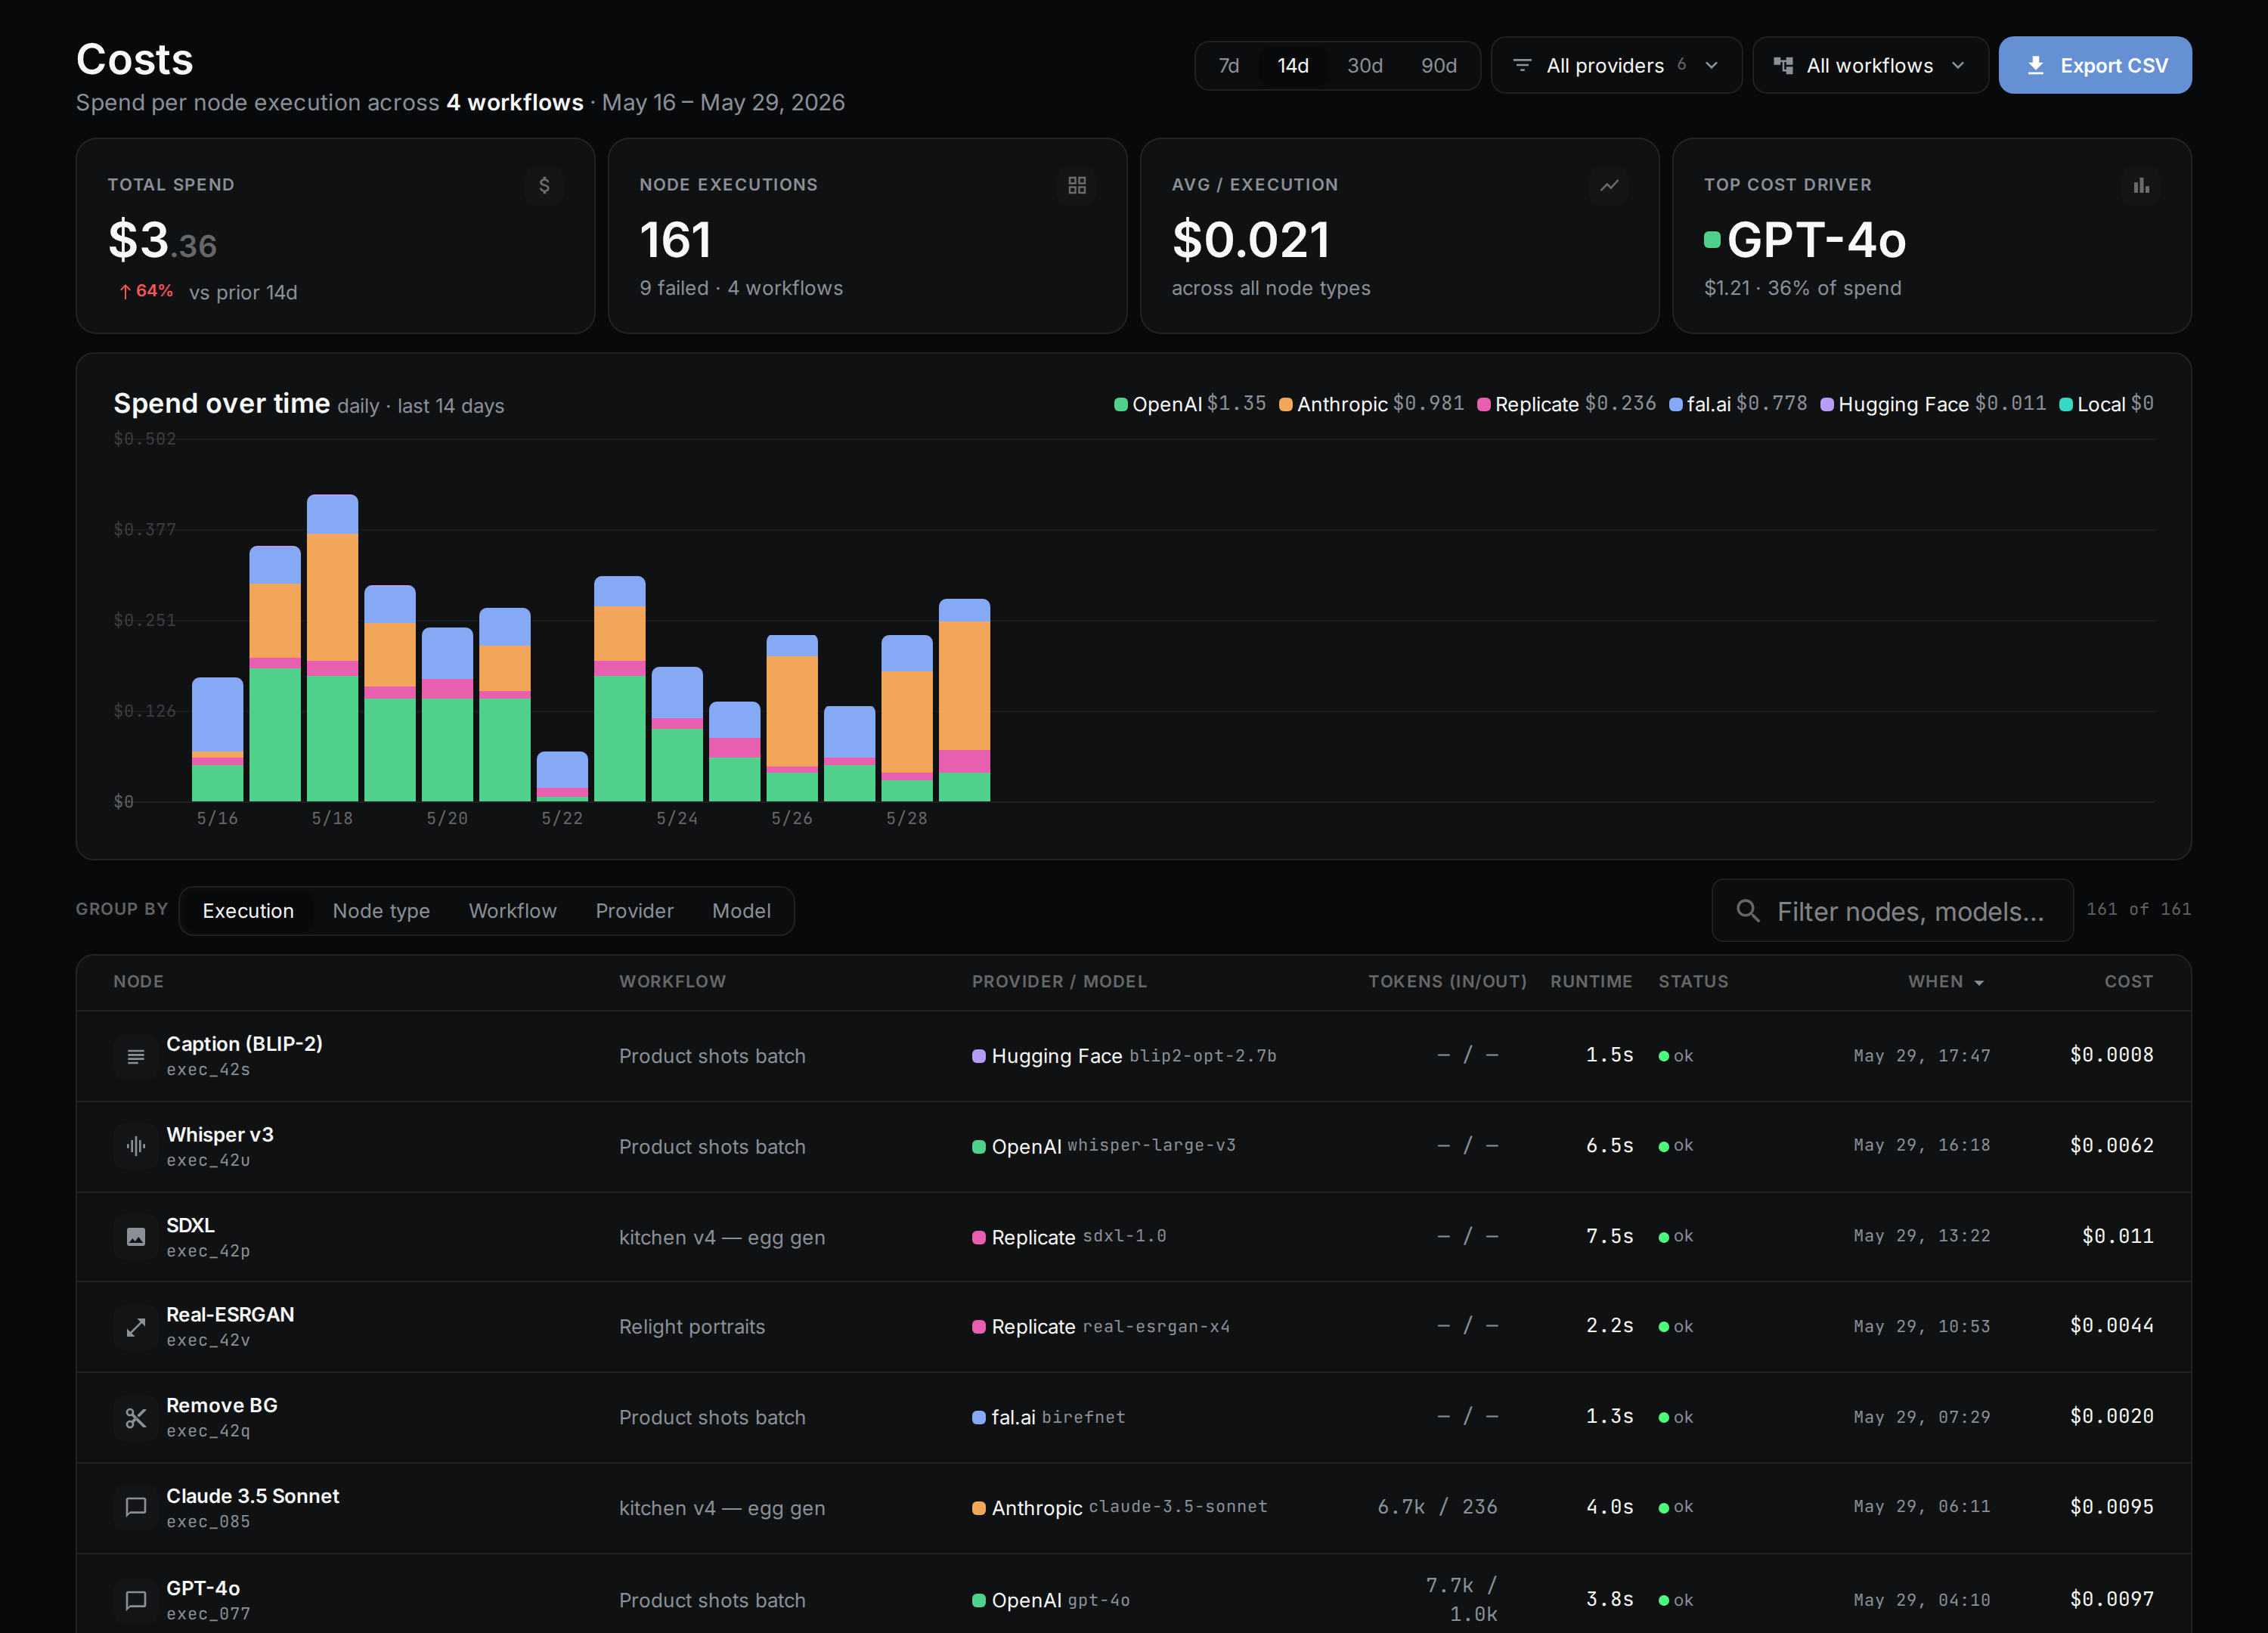
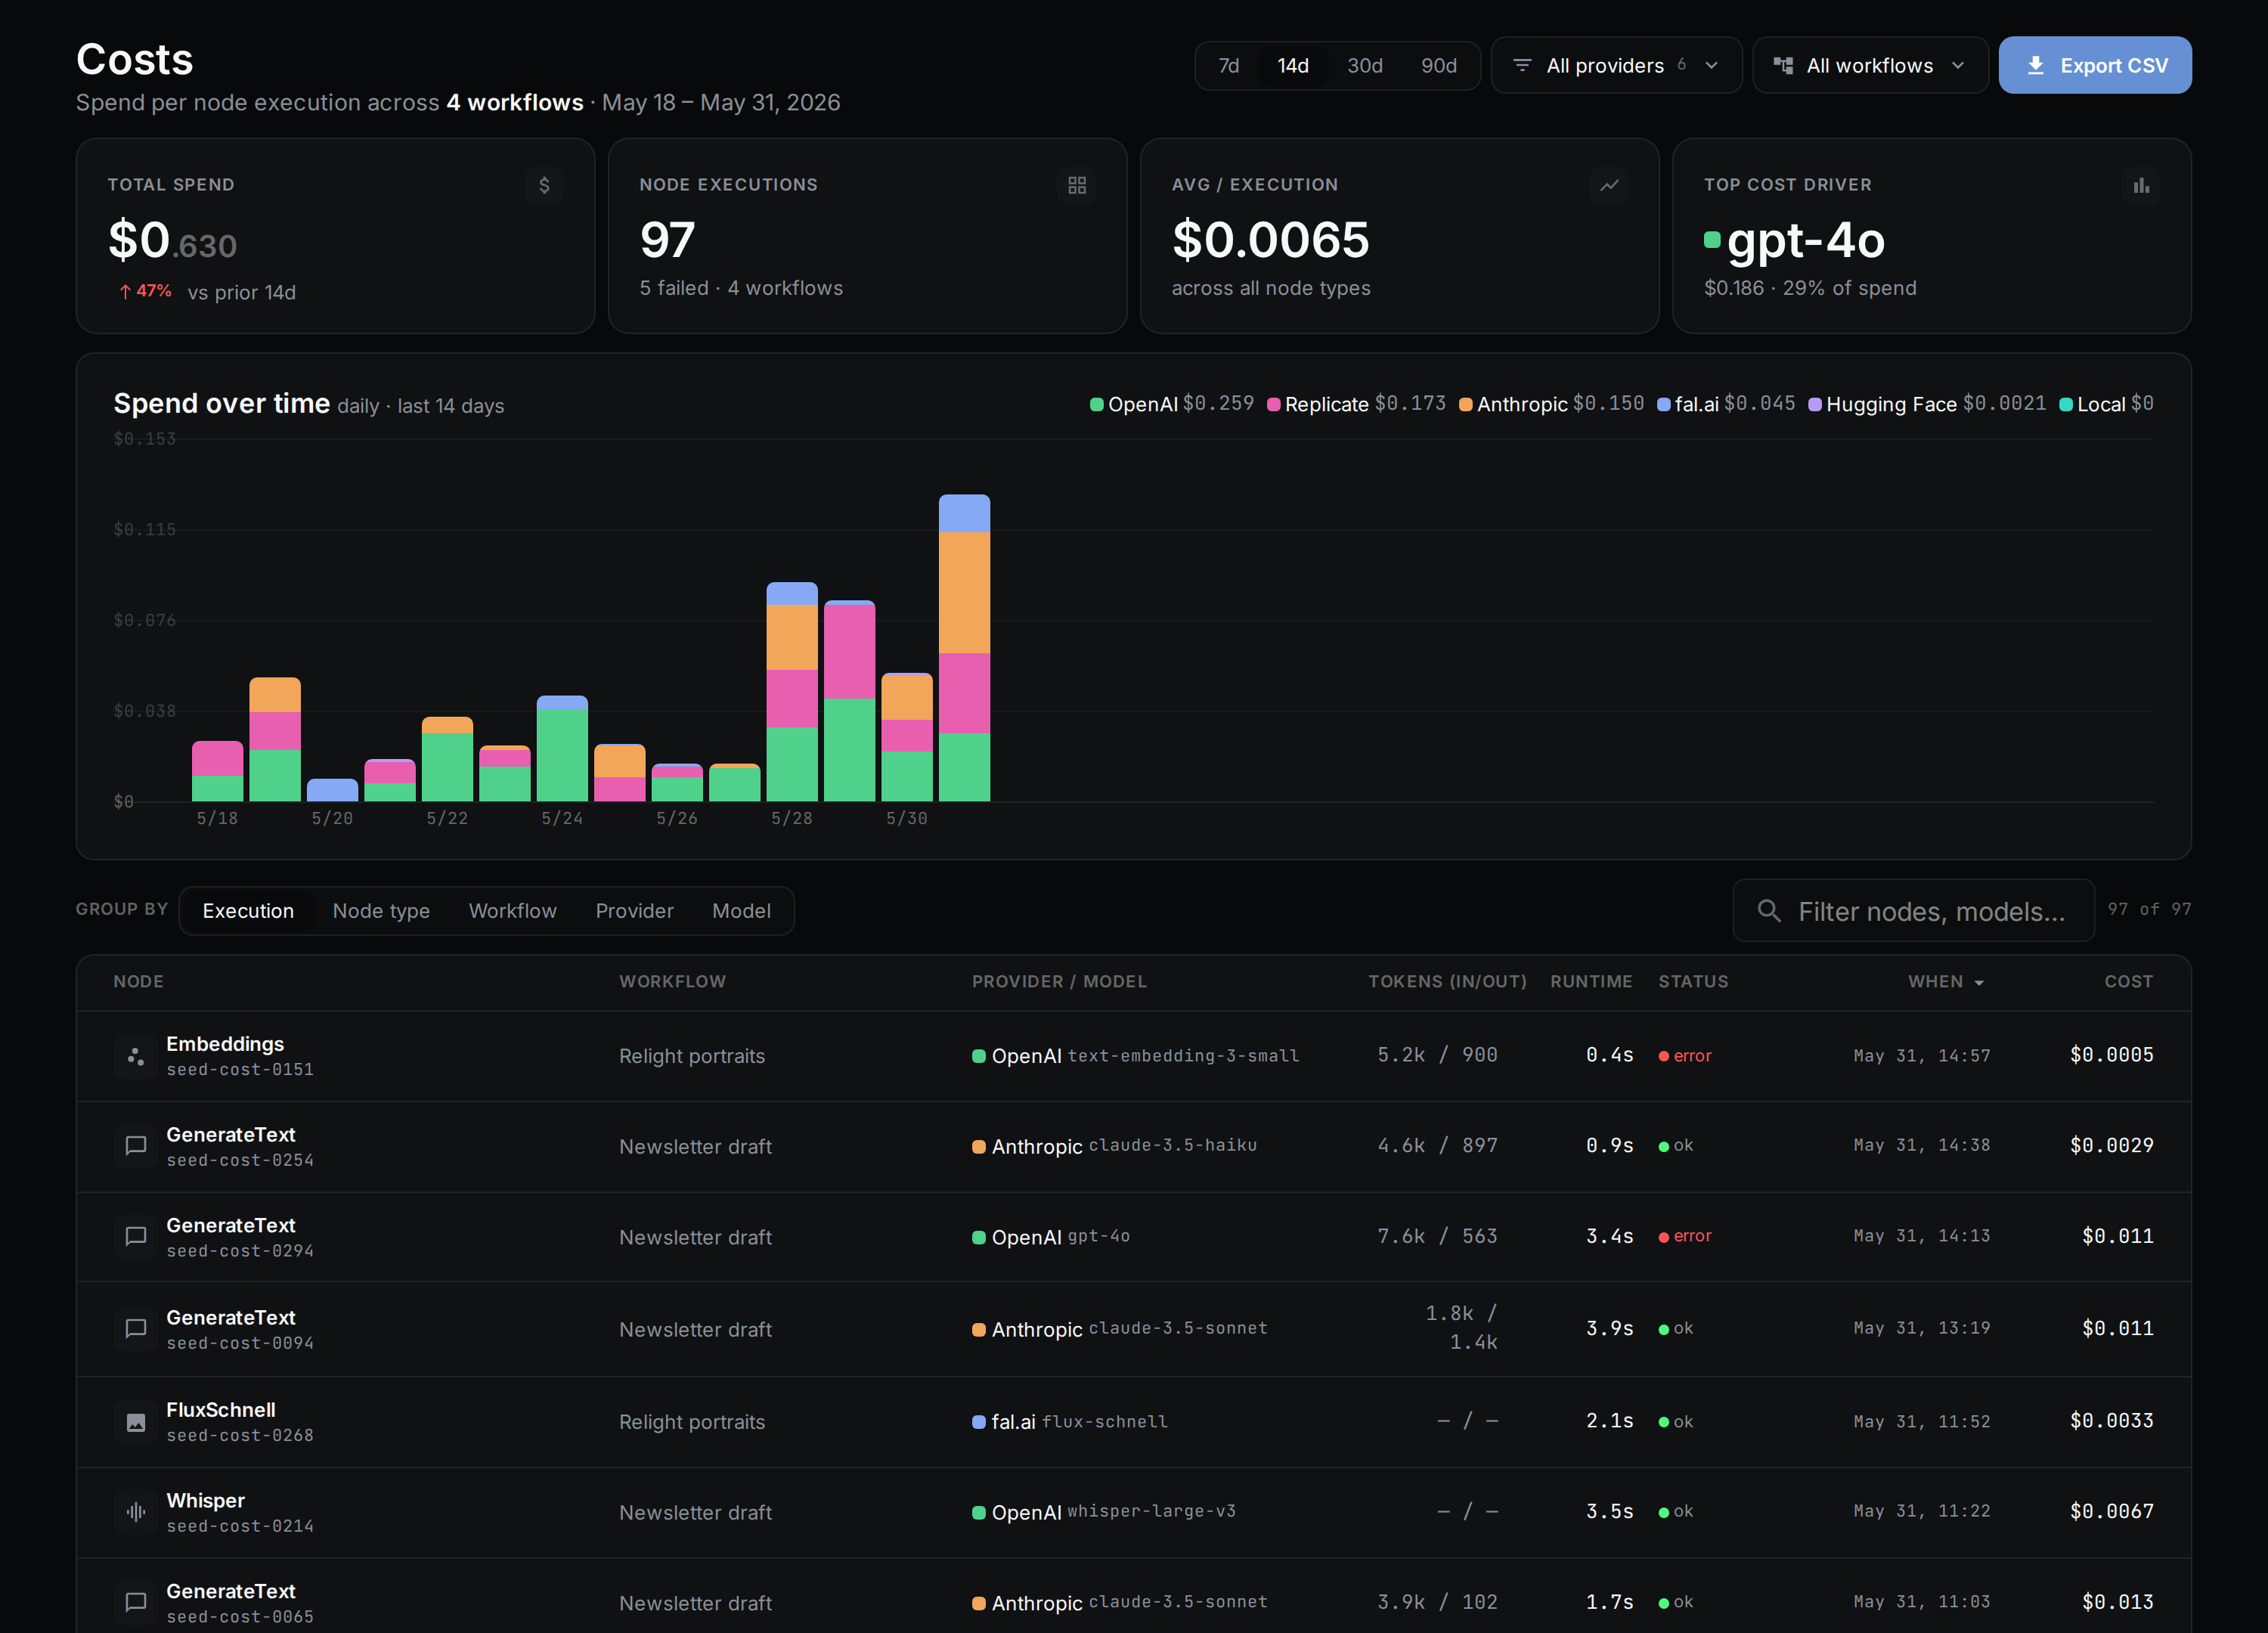
Add opt-in demo cost-data seed
Populate nodetool_predictions (and a few demo workflows so names resolve)
with realistic spend for the Costs dashboard — for screenshots and local
development, replacing the removed frontend sample data.

- seedCostData() generates a deterministic set of ~320 predictions across a
  trailing 90-day window (recency-biased so the default 14d view is dense),
  spanning providers/models/node types with token counts, durations, a few
  failures, and demo workflows for name resolution. Timestamps are relative
  to "now"; idempotent via a marker row.
- Wired into runSeeds() behind NODETOOL_SEED_DEMO_COSTS=1 so it never
  pollutes a real install; exported from @user/models.
- Tests cover seeding, idempotency, and that the data feeds
  Prediction.aggregateDashboard with resolvable workflow names.
- Refresh the dashboard screenshot from a live, seeded run.
https://claude.ai/code/session_01SNGbnZNJPNkSo9mQfrHwvQ

diff --git a/packages/models/src/seeds/cost_data.ts b/packages/models/src/seeds/cost_data.ts
@@ -1,0 +1,145 @@
+/**
+ * Demo cost-data seed.
+ *
+ * Populates `nodetool_predictions` (and a few demo workflows so names resolve)
+ * with realistic-looking spend for the Costs dashboard — for screenshots and
+ * local development. Off by default; enabled via `NODETOOL_SEED_DEMO_COSTS=1`
+ * (see `runSeeds`). Idempotent: a deterministic marker row prevents re-seeding.
+ *
+ * Timestamps are relative to "now" so the dashboard's trailing window always
+ * contains data regardless of when the seed runs.
+ */
+import { Prediction } from "../prediction.js";
+import { Workflow } from "../workflow.js";
+
+export const COST_SEED_USER_ID = "1";
+const MARKER_ID = "seed-cost-0001";
+const SPAN_DAYS = 90;
+const COUNT = 320;
+const DAY_MS = 86_400_000;
+
+interface DemoWorkflow {
+  id: string;
+  name: string;
+}
+
+const WORKFLOWS: DemoWorkflow[] = [
+  { id: "seed-wf-product-0001", name: "Product shots batch" },
+  { id: "seed-wf-kitchen-0001", name: "kitchen v4 — egg gen" },
+  { id: "seed-wf-relight-0001", name: "Relight portraits" },
+  { id: "seed-wf-newsletter-0001", name: "Newsletter draft" }
+];
+
+interface CatalogEntry {
+  nodeType: string;
+  provider: string;
+  model: string;
+  hasTokens: boolean;
+  baseCost: number;
+  runtime: [number, number];
+  weight: number;
+}
+
+// prettier-ignore
+const CATALOG: CatalogEntry[] = [
+  { nodeType: "nodetool.llm.GenerateText", provider: "openai", model: "gpt-4o", hasTokens: true, baseCost: 0.0125, runtime: [1.2, 4.5], weight: 9 },
+  { nodeType: "nodetool.llm.GenerateText", provider: "anthropic", model: "claude-3.5-sonnet", hasTokens: true, baseCost: 0.009, runtime: [1.4, 5.2], weight: 7 },
+  { nodeType: "nodetool.llm.GenerateText", provider: "anthropic", model: "claude-3.5-haiku", hasTokens: true, baseCost: 0.0021, runtime: [0.8, 2.4], weight: 4 },
+  { nodeType: "nodetool.image.StableDiffusionXL", provider: "replicate", model: "sdxl-1.0", hasTokens: false, baseCost: 0.011, runtime: [5.5, 9.5], weight: 5 },
+  { nodeType: "nodetool.image.FluxSchnell", provider: "fal", model: "flux-schnell", hasTokens: false, baseCost: 0.0031, runtime: [1.1, 3.0], weight: 6 },
+  { nodeType: "nodetool.audio.Whisper", provider: "openai", model: "whisper-large-v3", hasTokens: false, baseCost: 0.0062, runtime: [3.0, 8.0], weight: 4 },
+  { nodeType: "nodetool.audio.TextToSpeech", provider: "openai", model: "tts-1", hasTokens: false, baseCost: 0.0015, runtime: [0.9, 2.2], weight: 3 },
+  { nodeType: "nodetool.text.ImageCaption", provider: "huggingface", model: "blip2-opt-2.7b", hasTokens: false, baseCost: 0.0008, runtime: [1.0, 2.4], weight: 4 },
+  { nodeType: "nodetool.image.RemoveBackground", provider: "fal", model: "birefnet", hasTokens: false, baseCost: 0.002, runtime: [0.9, 2.0], weight: 5 },
+  { nodeType: "nodetool.image.Upscale", provider: "replicate", model: "real-esrgan-x4", hasTokens: false, baseCost: 0.0044, runtime: [1.6, 3.4], weight: 4 },
+  { nodeType: "nodetool.text.Embeddings", provider: "openai", model: "text-embedding-3-small", hasTokens: true, baseCost: 0.0003, runtime: [0.3, 0.9], weight: 4 },
+  { nodeType: "nodetool.llm.GenerateText", provider: "local", model: "llama-3-8b", hasTokens: true, baseCost: 0, runtime: [0.6, 2.8], weight: 4 }
+];
+
+/** Deterministic PRNG so the seeded set is stable. */
+const mulberry32 = (seed: number): (() => number) => {
+  let s = seed;
+  return () => {
+    s |= 0;
+    s = (s + 0x6d2b79f5) | 0;
+    let t = Math.imul(s ^ (s >>> 15), 1 | s);
+    t = (t + Math.imul(t ^ (t >>> 7), 61 | t)) ^ t;
+    return ((t ^ (t >>> 14)) >>> 0) / 4294967296;
+  };
+};
+
+const pad4 = (n: number): string => n.toString().padStart(4, "0");
+
+/**
+ * Seed demo predictions + workflows. Returns the number of predictions created
+ * (0 when already seeded).
+ */
+export async function seedCostData(): Promise<number> {
+  if (await Prediction.find(MARKER_ID)) return 0;
+
+  for (const wf of WORKFLOWS) {
+    if (!(await Workflow.get(wf.id))) {
+      await Workflow.create<Workflow>({
+        id: wf.id,
+        user_id: COST_SEED_USER_ID,
+        name: wf.name,
+        graph: { nodes: [], edges: [] }
+      });
+    }
+  }
+
+  const rng = mulberry32(0xc05d_a7a);
+  const weightTotal = CATALOG.reduce((a, c) => a + c.weight, 0);
+  const pick = (): CatalogEntry => {
+    let r = rng() * weightTotal;
+    for (const c of CATALOG) {
+      r -= c.weight;
+      if (r <= 0) return c;
+    }
+    return CATALOG[CATALOG.length - 1];
+  };
+
+  const now = Date.now();
+
+  for (let i = 0; i < COUNT; i++) {
+    const entry = pick();
+    // Bias toward recent days so the default 14d window is dense.
+    const dayOffset = Math.floor(SPAN_DAYS * Math.pow(rng(), 1.7));
+    const createdMs = now - dayOffset * DAY_MS - Math.floor(rng() * DAY_MS);
+    const cost = +(entry.baseCost * (0.55 + rng() * 1.05)).toFixed(6);
+    const runtime = +(
+      entry.runtime[0] +
+      rng() * (entry.runtime[1] - entry.runtime[0])
+    ).toFixed(1);
+    const inputTokens = entry.hasTokens ? 250 + Math.floor(rng() * 7600) : null;
+    const outputTokens = entry.hasTokens ? 80 + Math.floor(rng() * 1500) : null;
+    const isLlm = entry.nodeType.includes(".llm") || entry.hasTokens;
+    const workflow =
+      isLlm && rng() < 0.6
+        ? WORKFLOWS[3]
+        : WORKFLOWS[Math.floor(rng() * WORKFLOWS.length)];
+
+    await Prediction.create<Prediction>({
+      id: `seed-cost-${pad4(i + 1)}`,
+      user_id: COST_SEED_USER_ID,
+      node_id: `${entry.nodeType.split(".").pop()}-${i + 1}`,
+      node_type: entry.nodeType,
+      provider: entry.provider,
+      model: entry.model,
+      workflow_id: workflow.id,
+      status: rng() < 0.07 ? "failed" : "completed",
+      cost,
+      input_tokens: inputTokens,
+      output_tokens: outputTokens,
+      total_tokens:
+        inputTokens != null && outputTokens != null
+          ? inputTokens + outputTokens
+          : null,
+      duration: runtime,
+      currency: "USD",
+      created_at: new Date(createdMs).toISOString()
+    });
+  }
+
+  return COUNT;
+}

diff --git a/packages/models/tests/cost-seed.test.ts b/packages/models/tests/cost-seed.test.ts
@@ -1,0 +1,50 @@
+import { afterEach, beforeEach, describe, expect, it } from "vitest";
+import { ModelObserver } from "../src/base-model.js";
+import { initTestDb } from "../src/db.js";
+import { Prediction } from "../src/prediction.js";
+import { Workflow } from "../src/workflow.js";
+import { seedCostData, COST_SEED_USER_ID } from "../src/seeds/cost_data.js";
+
+describe("seedCostData", () => {
+  beforeEach(() => initTestDb());
+  afterEach(() => ModelObserver.clear());
+
+  it("seeds predictions and demo workflows with node types", async () => {
+    const created = await seedCostData();
+    expect(created).toBeGreaterThan(0);
+
+    const [rows] = await Prediction.paginate(COST_SEED_USER_ID, {
+      limit: 1000
+    });
+    expect(rows).toHaveLength(created);
+    expect(rows.every((r) => r.node_type.length > 0)).toBe(true);
+    expect(rows.some((r) => r.status === "failed")).toBe(true);
+
+    const wf = await Workflow.get<Workflow>("seed-wf-product-0001");
+    expect(wf?.name).toBe("Product shots batch");
+  });
+
+  it("is idempotent", async () => {
+    const first = await seedCostData();
+    const second = await seedCostData();
+    expect(second).toBe(0);
+
+    const [rows] = await Prediction.paginate(COST_SEED_USER_ID, {
+      limit: 1000
+    });
+    expect(rows).toHaveLength(first);
+  });
+
+  it("feeds the dashboard aggregation with resolvable workflow names", async () => {
+    await seedCostData();
+    const dash = await Prediction.aggregateDashboard(COST_SEED_USER_ID, {
+      days: 14,
+      tzOffsetMinutes: 0
+    });
+    expect(dash.providers.length).toBeGreaterThan(0);
+    expect(dash.executions.length).toBeGreaterThan(0);
+    expect(dash.stats.total_cost).toBeGreaterThan(0);
+    expect(dash.executions.every((e) => e.node_type.length > 0)).toBe(true);
+    expect(dash.executions.some((e) => e.workflow_name)).toBe(true);
+  });
+});

diff --git a/packages/models/src/seeds/index.ts b/packages/models/src/seeds/index.ts
@@ -1,12 +1,20 @@
 import { seedTimelineTemplates } from "./timeline_templates.js";
 import { seedImageTemplates } from "./image_templates.js";
 import { seedImageEditorTemplates } from "./image_editor_templates.js";
+import { seedCostData } from "./cost_data.js";
 
 export async function runSeeds(): Promise<void> {
   await seedTimelineTemplates();
   await seedImageTemplates();
   await seedImageEditorTemplates();
+  // Demo cost data is opt-in (screenshots / local dev) so it never pollutes a
+  // real install.
+  if (process.env.NODETOOL_SEED_DEMO_COSTS === "1") {
+    await seedCostData();
+  }
 }
+
+export { seedCostData, COST_SEED_USER_ID } from "./cost_data.js";
 
 export {
   seedTimelineTemplates,

diff --git a/packages/models/src/index.ts b/packages/models/src/index.ts
@@ -117,6 +117,8 @@ export {
   seedTimelineTemplates,
   seedImageTemplates,
   seedImageEditorTemplates,
+  seedCostData,
+  COST_SEED_USER_ID,
   SEED_IDS,
   IMAGE_SEED_IDS,
   SYSTEM_USER_ID,